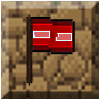
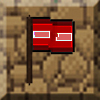
Tweak math for tileSize to rendre better, update tile textures

diff --git a/public/js/MainScene.js b/public/js/MainScene.js
@@ -172,30 +172,33 @@ export default class MainScene extends Phaser.Scene {
 
   //method to return coodinates (x,y) of all surrdounding tiles if they exists
   surroundingTilesCoordinatesArray = (tileData) => {
+    const { numOfCols, numOfRows } = levelData[this.currentLevel];
+    const colIndex = numOfCols - 1;
+    const rowIndex = numOfRows - 1;
     let surroundingTileArray = [];
     const { xIndex, yIndex } = tileData;
     if (xIndex > 0) {
       surroundingTileArray.push([xIndex - 1, yIndex]);
     }
-    if (xIndex < 11) {
+    if (xIndex < colIndex) {
       surroundingTileArray.push([xIndex + 1, yIndex]);
     }
     if (yIndex > 0) {
       surroundingTileArray.push([xIndex, yIndex - 1]);
     }
-    if (yIndex < 7) {
+    if (yIndex < rowIndex) {
       surroundingTileArray.push([xIndex, yIndex + 1]);
     }
     if (xIndex > 0 && yIndex > 0) {
       surroundingTileArray.push([xIndex - 1, yIndex - 1]);
     }
-    if (xIndex > 0 && yIndex < 7) {
+    if (xIndex > 0 && yIndex < rowIndex) {
       surroundingTileArray.push([xIndex - 1, yIndex + 1]);
     }
-    if (xIndex < 11 && yIndex > 0) {
+    if (xIndex < colIndex && yIndex > 0) {
       surroundingTileArray.push([xIndex + 1, yIndex - 1]);
     }
-    if (xIndex < 11 && yIndex < 7) {
+    if (xIndex < colIndex && yIndex < rowIndex) {
       surroundingTileArray.push([xIndex + 1, yIndex + 1]);
     }
     return surroundingTileArray;
@@ -221,8 +224,8 @@ export default class MainScene extends Phaser.Scene {
   create() {
     const sceneWidth = this.sys.game.config.width;
     const sceneHeight = this.sys.game.config.height;
-    let tileSize = 38;
-    let startingX = (sceneWidth - tileSize * 12 + tileSize) / 2;
+    let tileSize;
+    let startingX;
     let startingY = 60;
     let tiles = [];
 
@@ -232,8 +235,12 @@ export default class MainScene extends Phaser.Scene {
     background.displayWidth = sceneWidth;
 
     // Set level text
-    let level = this.add.text(sceneWidth - startingX + 18, 10, 'level: 1', {
+    let level = this.add.text(sceneWidth - 20, 10, 'level: 1', {
       fontSize: '20px',
+    });
+    let gameNameText = this.add.text(20, 10, 'MineDigger', {
+      fontSize: '20px',
+      fontStyle: 'bold',
     });
 
     //set heart image
@@ -343,23 +350,13 @@ export default class MainScene extends Phaser.Scene {
       });
     };
 
-    let tileObjectData = {
-      hidden: 'hiddenTile',
-      tileSize: tileSize,
-      loseLevel,
-      winLevel,
-      getIsGamePlaying: this.getIsGamePlaying,
-      setTileClickable: this.setTileClickable,
-      getLives: this.getLives,
-      setLives,
-      setSurroundingTilesToClickable,
-    };
-
     // initialize the gameData and populate the gameboard with tiles
     const startGame = () => {
       console.log(`Current Level: ${this.currentLevel}`);
       this.initilizeGameData();
-      tileSize = (sceneWidth - 200) / levelData[this.currentLevel].numOfCols;
+
+      tileSize = (sceneWidth - 180) / levelData[this.currentLevel].numOfCols;
+
       startingX =
         (sceneWidth -
           tileSize * levelData[this.currentLevel].numOfCols +
@@ -367,13 +364,25 @@ export default class MainScene extends Phaser.Scene {
         2;
 
       //set current level text
-      level.setText(`MineDigger                   Level: ${this.currentLevel}`);
+      level.setText(`Level: ${this.currentLevel}`);
       level.displayOriginX = level.displayWidth;
 
       //set current lives text
       livesText.setText(this.lives);
 
       this.setIsGamePlaying(true);
+
+      let tileObjectData = {
+        hidden: 'hiddenTile',
+        tileSize,
+        loseLevel,
+        winLevel,
+        getIsGamePlaying: this.getIsGamePlaying,
+        setTileClickable: this.setTileClickable,
+        getLives: this.getLives,
+        setLives,
+        setSurroundingTilesToClickable,
+      };
 
       // add Tiles based on gameData
       for (
